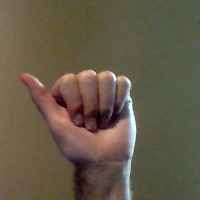
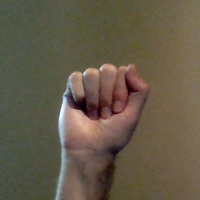
Removed mirror imaging from Webcam_Recognition

diff --git a/Webcam_Recognition.py b/Webcam_Recognition.py
@@ -19,10 +19,10 @@ def show_webcam(mirror=False):
 
     while True:
         ret, frame = cam.read()
-        frame = cv2.flip(frame, 1)
+        # frame = cv2.flip(frame, 1)
         
-        xmin = 384
-        xmax = 584
+        xmin = 50
+        xmax = 250
         ymin = 100
         ymax = 300
 
